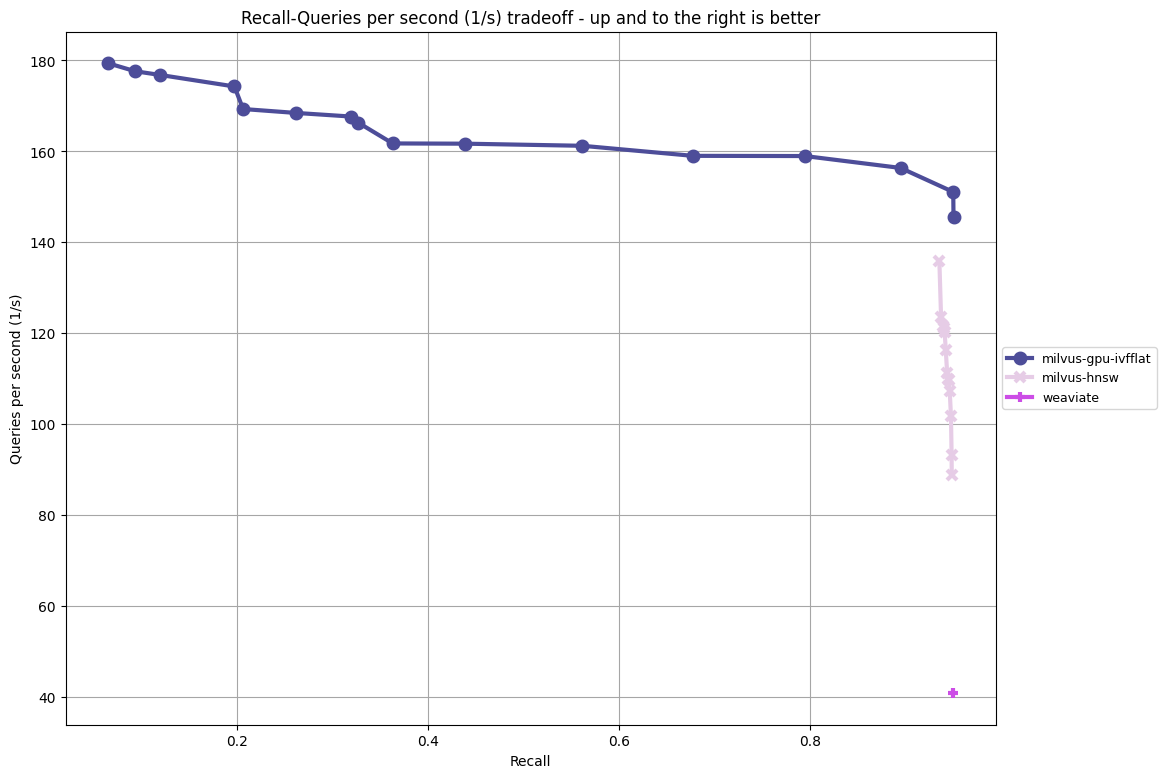
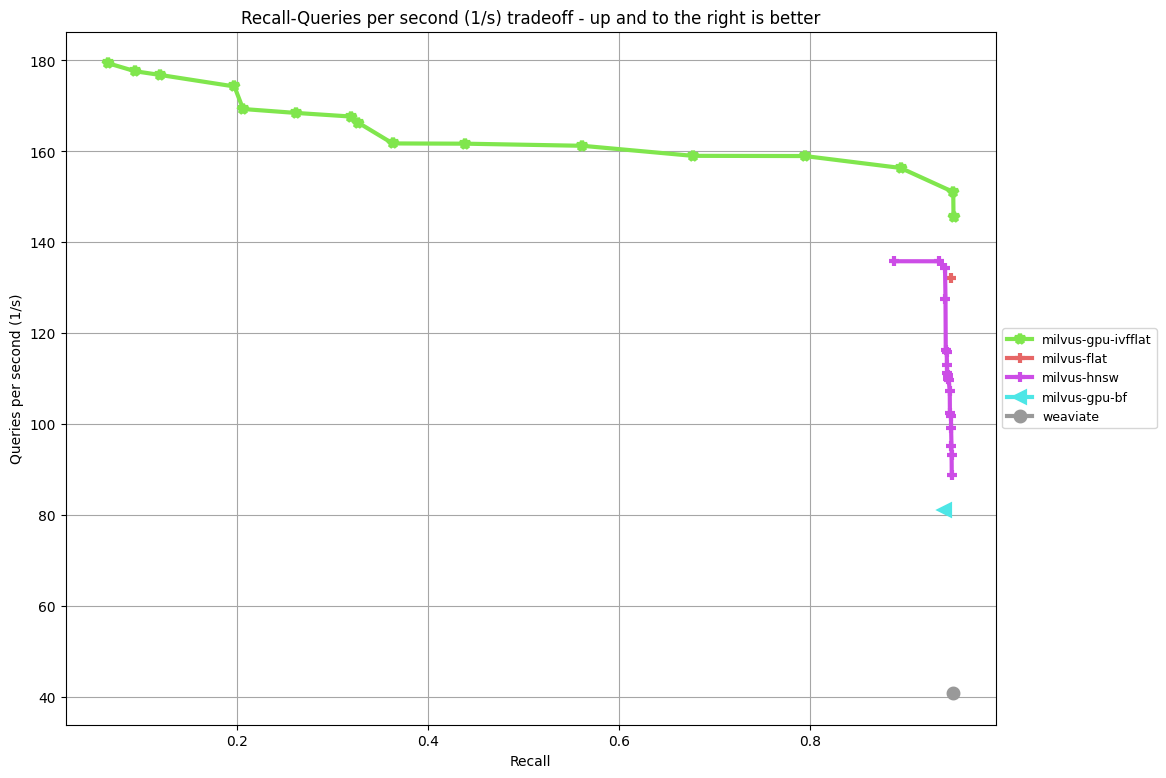
add img-wikipedia-mm dataset, update some res and fix milvus cagra params

diff --git a/ann_benchmarks/datasets.py b/ann_benchmarks/datasets.py
@@ -575,6 +575,9 @@ def gpt4vision(out_fn: str) -> None:
 def librispeech_asr(out_fn: str) -> None:
     pass
 
+def img_wikipedia(out_fn: str) -> None:
+    pass
+
 DATASETS: Dict[str, Callable[[str], None]] = {
     "deep-image-96-angular": deep_image,
     "fashion-mnist-784-euclidean": fashion_mnist,
@@ -609,7 +612,9 @@ DATASETS: Dict[str, Callable[[str], None]] = {
     "librispeech_asr-euclidean-mm": librispeech_asr,
     "app_reviews_euclidean": app_reviews,
     "cc_news_euclidean": cc_news,
-    "ag_news_euclidean": ag_news
+    "ag_news_euclidean": ag_news,
+    "img-wikipedia-mm": img_wikipedia,
+    "img-wikipedia-mm-ocr": img_wikipedia,
 }
 
 DATASETS.update({
